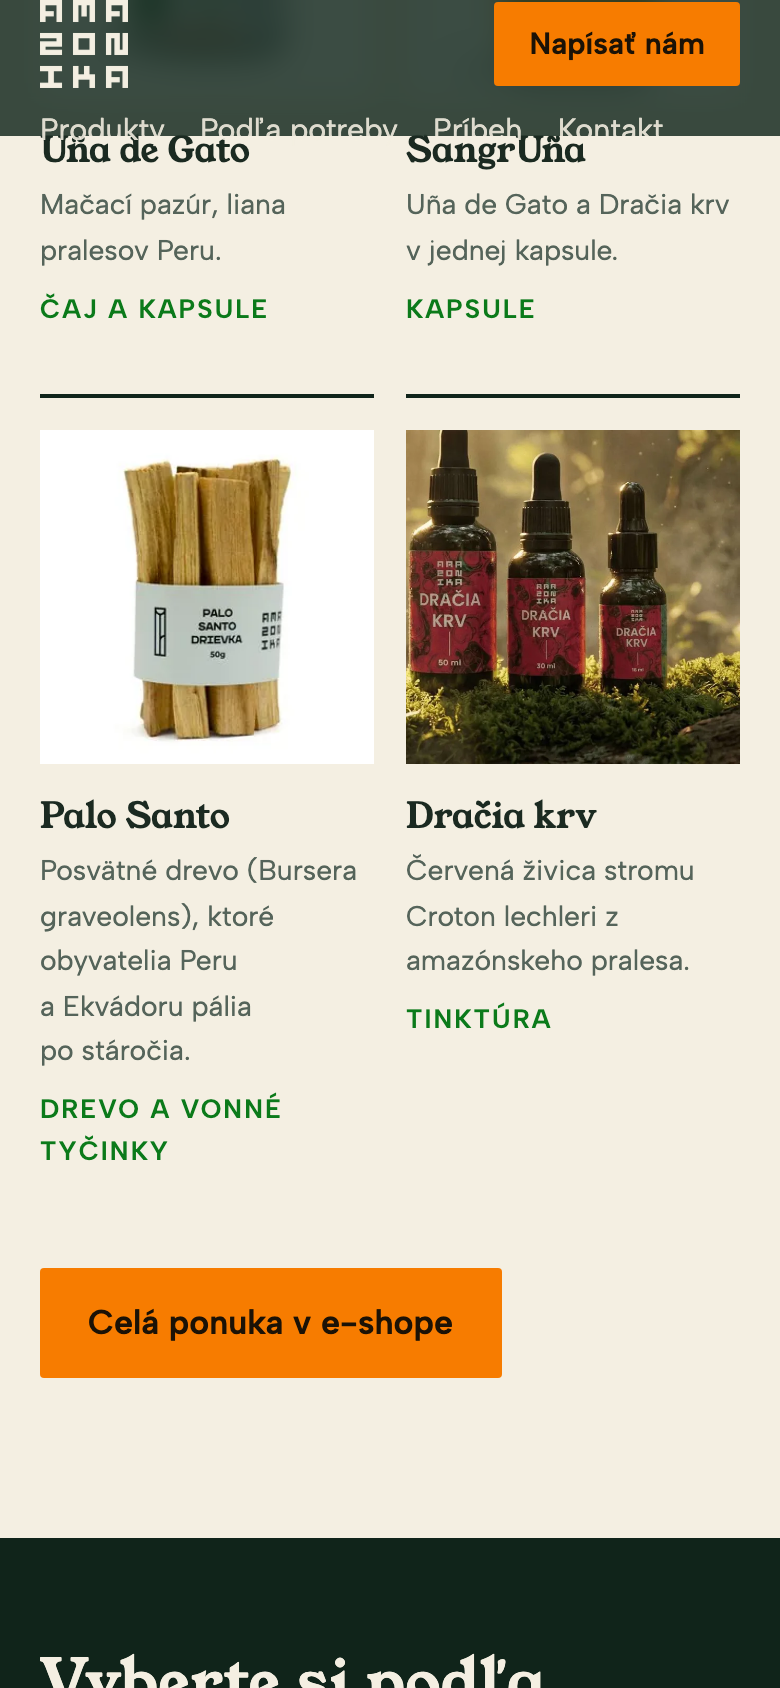
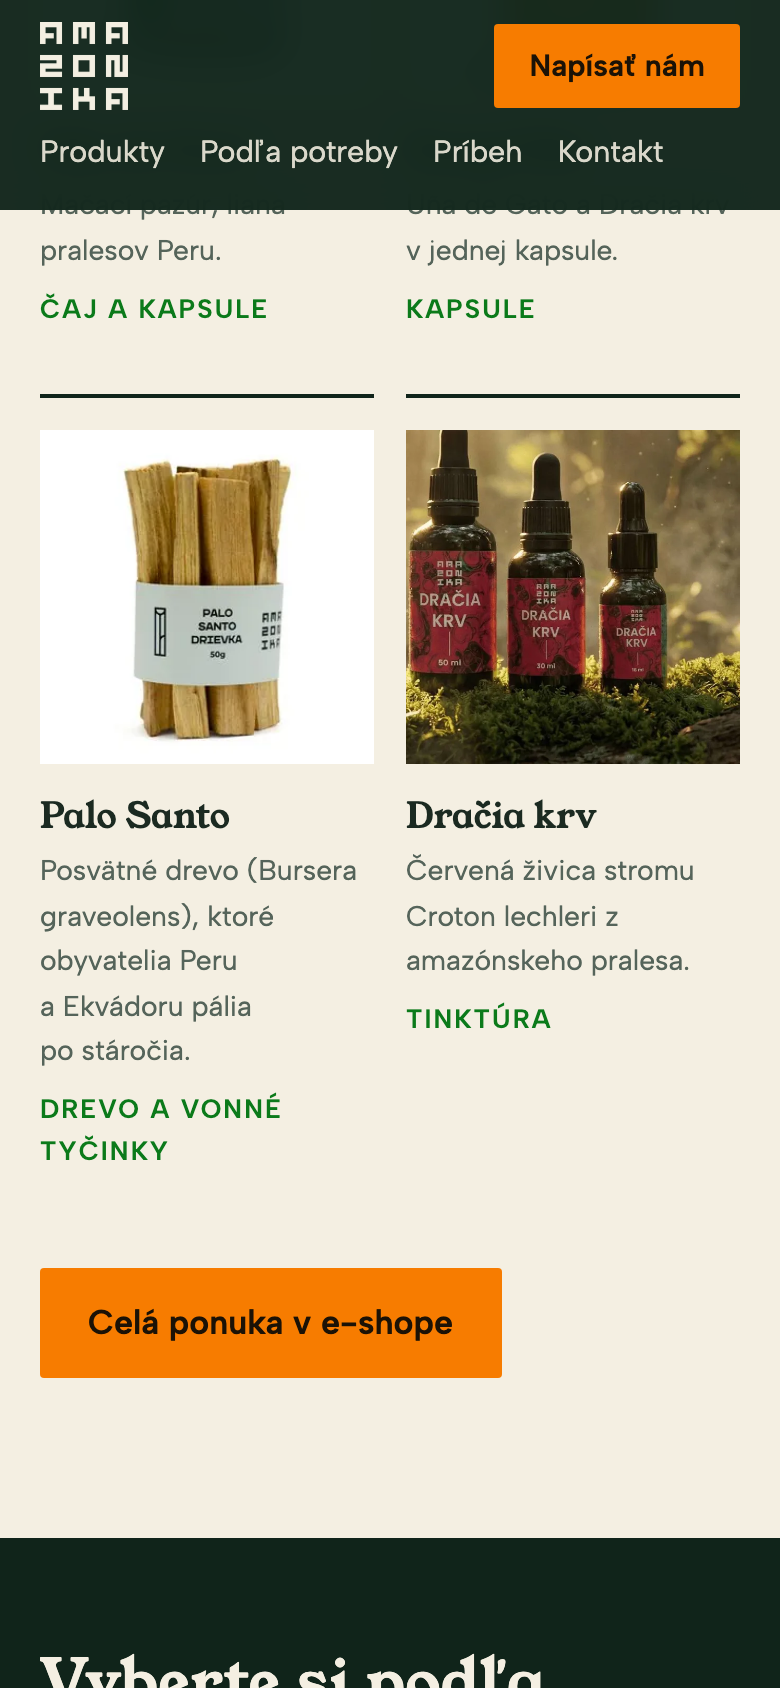
Aktualizace webu 2026-11-24 09:58

Changed region(s): [[0.0, 0.0, 1.0, 0.1232]]

diff --git a/static/css/style.css b/static/css/style.css
@@ -79,3 +79,11 @@ a{color:inherit}
 @media (max-width:60rem){.hlavicka{background:rgba(16,36,26,.96)}.hl{flex-wrap:wrap;row-gap:0;height:auto;padding-block:.7rem .1rem}.sekce,.hero{scroll-margin-top:7rem}.potreby .dalej{padding-block:.8rem;min-height:44px}.hlavicka nav{order:3;width:100%;display:flex!important;gap:1.1rem;overflow-x:auto;padding-bottom:.4rem}.hlavicka nav a{padding:.55rem 0;font-size:.95rem;white-space:nowrap}.hero::after{background:linear-gradient(180deg,rgba(16,36,26,.6),rgba(16,36,26,.55) 30%,rgba(16,36,26,.92))}.hero-obsah{padding-top:10rem}.pribeh,.kontakt{grid-template-columns:1fr}.hl .btn{margin-left:auto}}
 @media (max-width:30rem){.potreby li p{font-size:.92rem}.hero-foto{object-position:62% 40%}.vzorky{gap:2rem 1rem;grid-template-columns:repeat(2,1fr)}.vzorka h3{font-size:1.1rem}.vzorka p{font-size:.88rem}.hero-obsah{padding-top:7rem}}
 @media (prefers-reduced-motion:reduce){html{scroll-behavior:auto}.reveal{opacity:1;transform:none;transition:none}}
+
+.vzorka .cena{font-family:var(--head);font-size:1.25rem;color:var(--text);margin-top:.5rem}
+.vzorka .detail{display:inline-flex;align-items:center;min-height:44px;font-weight:600;color:var(--zelena);text-decoration:none;border-bottom:2px solid transparent}
+.vzorka .detail:hover,.vzorka .detail:focus-visible{border-bottom-color:currentColor}
+.pot-hlava{display:flex;align-items:center;gap:.8rem}
+.pot-hlava img{width:56px;height:56px;flex:none;border-radius:50%;object-fit:cover;background:#fff}
+.potreby .kratky{display:none}
+@media (max-width:60rem){.potreby .dlouhy{display:none}.potreby .kratky{display:inline}.potreby li{padding:.8rem 0}.potreby li p{margin-top:.3rem}.potreby .dalej{margin-top:.2rem}}

diff --git a/src/index.html b/src/index.html
@@ -26,6 +26,8 @@
         <h3>{{ p.nazev }}</h3>
         <p>{{ p.popis }}</p>
         <p class="forma">{{ p.forma }}</p>
+        <p class="cena">od {{ p.cena }} €</p>
+        <a class="detail" href="{{ p.url }}" rel="noopener" aria-label="Detail produktu {{ p.nazev }} v e-shope">Detail →</a>
       </li>
       {% endfor %}
     </ul>
@@ -41,7 +43,7 @@
     </header>
     <ul class="potreby" role="list">
       {% for p in data.potreby %}
-      <li><h3>{{ p.nazev }}</h3><p>{{ p.text }}</p><a class="odkaz-svetly dalej" href="#produkty">Pozrieť produkty →</a></li>
+      <li><div class="pot-hlava">{{ img(p.foto ~ ('.jpg' if p.foto in ['maca','chanca','aguaje','guanabana','sacha','caihua','palosanto','sangruna','unadegato','dracia'] else '.png'), '', sizes='64px') }}<h3>{{ p.nazev }}</h3></div><p><span class="dlouhy">{{ p.text }}</span><span class="kratky">{{ p.kratce }}</span></p><a class="odkaz-svetly dalej" href="#produkty">Pozrieť produkty →</a></li>
       {% endfor %}
     </ul>
   </div>
